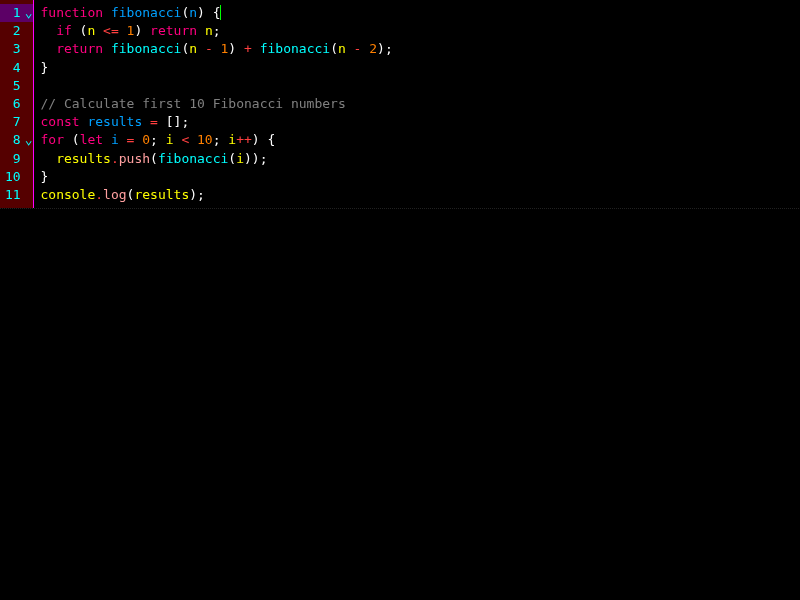
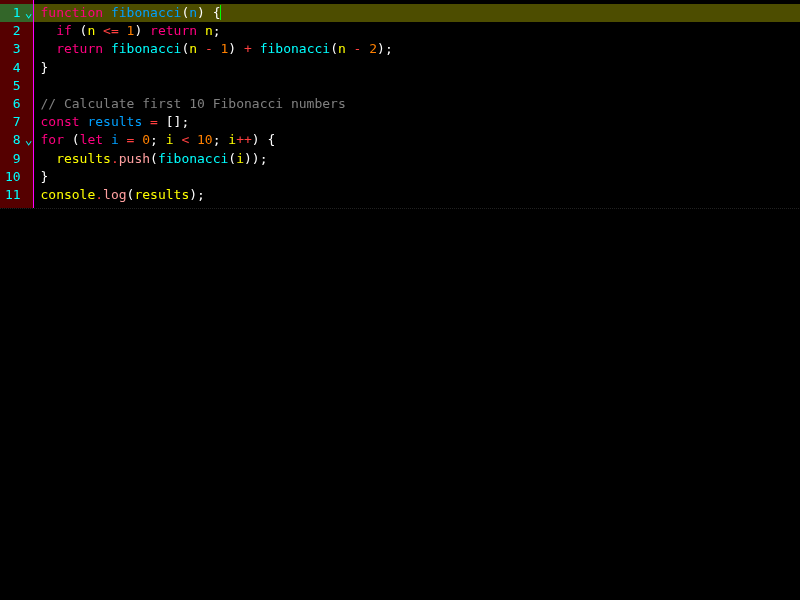
Fix CSS hex color byte order in contrast reference scenarios
CSS uses RRGGBBAA byte order for 8-digit hex colors, but the values in
the 4 contrast HTML scenario files were incorrectly written in Kotlin's
AARRGGBB format. Fixed all occurrences and re-captured reference
screenshots.

Also fix pre-existing ktlint violations in autocomplete module:
- Rename Filter.kt to FilterResult.kt to match primary class name
- Suppress function-naming rule for @Composable CompletionList function

Changed region(s): [[0.0, 0.0, 1.0, 0.06]]

diff --git a/reference-screenshots/scenarios/contrast-basic.html b/reference-screenshots/scenarios/contrast-basic.html
@@ -46,20 +46,20 @@
       "&.cm-focused .cm-cursor": { borderLeftColor: "#00FF00" },
       "&.cm-focused .cm-selectionBackground, .cm-selectionBackground, ::selection":
         { backgroundColor: "#9900FF99" },
-      ".cm-activeLine": { backgroundColor: "#4DFFFF00" },
+      ".cm-activeLine": { backgroundColor: "#FFFF004D" },
       ".cm-gutters": {
         backgroundColor: "#550000",
         color: "#00FFFF",
         borderRight: "1px solid #FF00FF",
       },
-      ".cm-activeLineGutter": { backgroundColor: "#6600FF66" },
+      ".cm-activeLineGutter": { backgroundColor: "#00FF6666" },
       ".cm-foldPlaceholder": { color: "#FFD700" },
       ".cm-panels": { backgroundColor: "#000033" },
-      ".cm-searchMatch": { backgroundColor: "#80AAFF00" },
-      ".cm-searchMatch.cm-searchMatch-selected": { backgroundColor: "#80FF4400" },
-      ".cm-selectionMatch": { backgroundColor: "#6600AAFF" },
-      "&.cm-focused .cm-matchingBracket": { backgroundColor: "#8000FF00" },
-      "&.cm-focused .cm-nonmatchingBracket": { backgroundColor: "#80FF0000" },
+      ".cm-searchMatch": { backgroundColor: "#AAFF0080" },
+      ".cm-searchMatch.cm-searchMatch-selected": { backgroundColor: "#FF440080" },
+      ".cm-selectionMatch": { backgroundColor: "#00AAFF66" },
+      "&.cm-focused .cm-matchingBracket": { backgroundColor: "#00FF0080" },
+      "&.cm-focused .cm-nonmatchingBracket": { backgroundColor: "#FF000080" },
     }, { dark: true });
 
     const extremeContrastHighlight = HighlightStyle.define([

diff --git a/reference-screenshots/scenarios/contrast-brackets.html b/reference-screenshots/scenarios/contrast-brackets.html
@@ -47,20 +47,20 @@
       "&.cm-focused .cm-cursor": { borderLeftColor: "#00FF00" },
       "&.cm-focused .cm-selectionBackground, .cm-selectionBackground, ::selection":
         { backgroundColor: "#9900FF99" },
-      ".cm-activeLine": { backgroundColor: "#4DFFFF00" },
+      ".cm-activeLine": { backgroundColor: "#FFFF004D" },
       ".cm-gutters": {
         backgroundColor: "#550000",
         color: "#00FFFF",
         borderRight: "1px solid #FF00FF",
       },
-      ".cm-activeLineGutter": { backgroundColor: "#6600FF66" },
+      ".cm-activeLineGutter": { backgroundColor: "#00FF6666" },
       ".cm-foldPlaceholder": { color: "#FFD700" },
       ".cm-panels": { backgroundColor: "#000033" },
-      ".cm-searchMatch": { backgroundColor: "#80AAFF00" },
-      ".cm-searchMatch.cm-searchMatch-selected": { backgroundColor: "#80FF4400" },
-      ".cm-selectionMatch": { backgroundColor: "#6600AAFF" },
-      "&.cm-focused .cm-matchingBracket": { backgroundColor: "#8000FF00" },
-      "&.cm-focused .cm-nonmatchingBracket": { backgroundColor: "#80FF0000" },
+      ".cm-searchMatch": { backgroundColor: "#AAFF0080" },
+      ".cm-searchMatch.cm-searchMatch-selected": { backgroundColor: "#FF440080" },
+      ".cm-selectionMatch": { backgroundColor: "#00AAFF66" },
+      "&.cm-focused .cm-matchingBracket": { backgroundColor: "#00FF0080" },
+      "&.cm-focused .cm-nonmatchingBracket": { backgroundColor: "#FF000080" },
     }, { dark: true });
 
     const extremeContrastHighlight = HighlightStyle.define([

diff --git a/reference-screenshots/scenarios/contrast-fold.html b/reference-screenshots/scenarios/contrast-fold.html
@@ -47,20 +47,20 @@
       "&.cm-focused .cm-cursor": { borderLeftColor: "#00FF00" },
       "&.cm-focused .cm-selectionBackground, .cm-selectionBackground, ::selection":
         { backgroundColor: "#9900FF99" },
-      ".cm-activeLine": { backgroundColor: "#4DFFFF00" },
+      ".cm-activeLine": { backgroundColor: "#FFFF004D" },
       ".cm-gutters": {
         backgroundColor: "#550000",
         color: "#00FFFF",
         borderRight: "1px solid #FF00FF",
       },
-      ".cm-activeLineGutter": { backgroundColor: "#6600FF66" },
+      ".cm-activeLineGutter": { backgroundColor: "#00FF6666" },
       ".cm-foldPlaceholder": { color: "#FFD700" },
       ".cm-panels": { backgroundColor: "#000033" },
-      ".cm-searchMatch": { backgroundColor: "#80AAFF00" },
-      ".cm-searchMatch.cm-searchMatch-selected": { backgroundColor: "#80FF4400" },
-      ".cm-selectionMatch": { backgroundColor: "#6600AAFF" },
-      "&.cm-focused .cm-matchingBracket": { backgroundColor: "#8000FF00" },
-      "&.cm-focused .cm-nonmatchingBracket": { backgroundColor: "#80FF0000" },
+      ".cm-searchMatch": { backgroundColor: "#AAFF0080" },
+      ".cm-searchMatch.cm-searchMatch-selected": { backgroundColor: "#FF440080" },
+      ".cm-selectionMatch": { backgroundColor: "#00AAFF66" },
+      "&.cm-focused .cm-matchingBracket": { backgroundColor: "#00FF0080" },
+      "&.cm-focused .cm-nonmatchingBracket": { backgroundColor: "#FF000080" },
     }, { dark: true });
 
     const extremeContrastHighlight = HighlightStyle.define([

diff --git a/reference-screenshots/scenarios/contrast-selection.html b/reference-screenshots/scenarios/contrast-selection.html
@@ -47,20 +47,20 @@
       "&.cm-focused .cm-cursor": { borderLeftColor: "#00FF00" },
       "&.cm-focused .cm-selectionBackground, .cm-selectionBackground, ::selection":
         { backgroundColor: "#9900FF99" },
-      ".cm-activeLine": { backgroundColor: "#4DFFFF00" },
+      ".cm-activeLine": { backgroundColor: "#FFFF004D" },
       ".cm-gutters": {
         backgroundColor: "#550000",
         color: "#00FFFF",
         borderRight: "1px solid #FF00FF",
       },
-      ".cm-activeLineGutter": { backgroundColor: "#6600FF66" },
+      ".cm-activeLineGutter": { backgroundColor: "#00FF6666" },
       ".cm-foldPlaceholder": { color: "#FFD700" },
       ".cm-panels": { backgroundColor: "#000033" },
-      ".cm-searchMatch": { backgroundColor: "#80AAFF00" },
-      ".cm-searchMatch.cm-searchMatch-selected": { backgroundColor: "#80FF4400" },
-      ".cm-selectionMatch": { backgroundColor: "#6600AAFF" },
-      "&.cm-focused .cm-matchingBracket": { backgroundColor: "#8000FF00" },
-      "&.cm-focused .cm-nonmatchingBracket": { backgroundColor: "#80FF0000" },
+      ".cm-searchMatch": { backgroundColor: "#AAFF0080" },
+      ".cm-searchMatch.cm-searchMatch-selected": { backgroundColor: "#FF440080" },
+      ".cm-selectionMatch": { backgroundColor: "#00AAFF66" },
+      "&.cm-focused .cm-matchingBracket": { backgroundColor: "#00FF0080" },
+      "&.cm-focused .cm-nonmatchingBracket": { backgroundColor: "#FF000080" },
     }, { dark: true });
 
     const extremeContrastHighlight = HighlightStyle.define([

diff --git a/autocomplete/src/commonMain/kotlin/com/monkopedia/kodemirror/autocomplete/View.kt b/autocomplete/src/commonMain/kotlin/com/monkopedia/kodemirror/autocomplete/View.kt
@@ -192,6 +192,7 @@ private class CompletionPlugin(
 
 // ── Composable UI ──
 
+@Suppress("ktlint:standard:function-naming")
 @Composable
 private fun CompletionList(
     view: EditorView,
